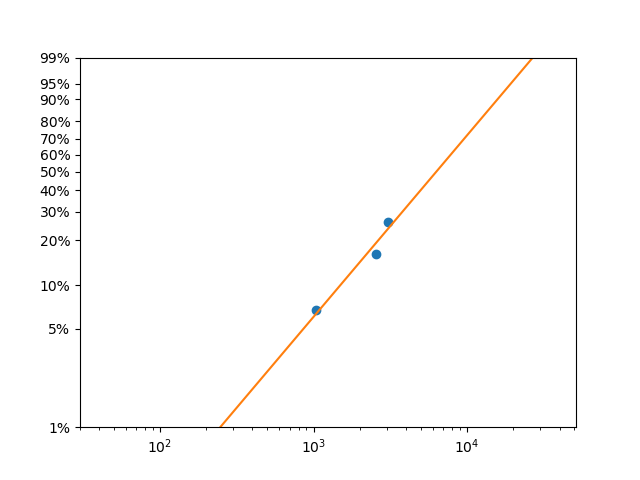
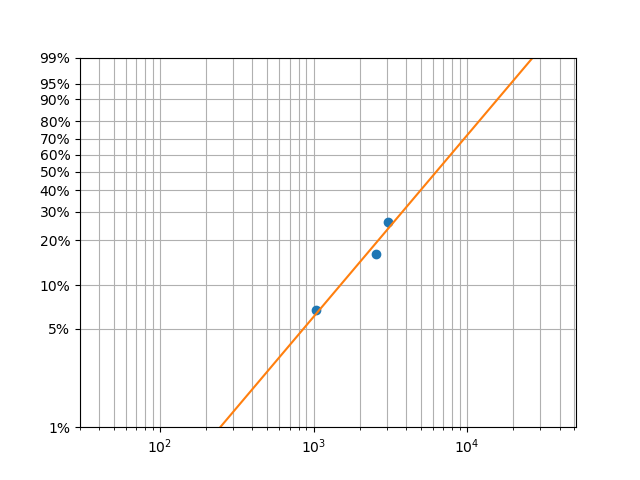
Better plotting

diff --git a/weibull.py b/weibull.py
@@ -95,6 +95,8 @@ class Analysis:
 
         plt.ylim(_ftolnln([.01, .99]))
 
+        ax.grid(True, which='both')
+
         if file_name:
             plt.savefig(file_name)
         else:
